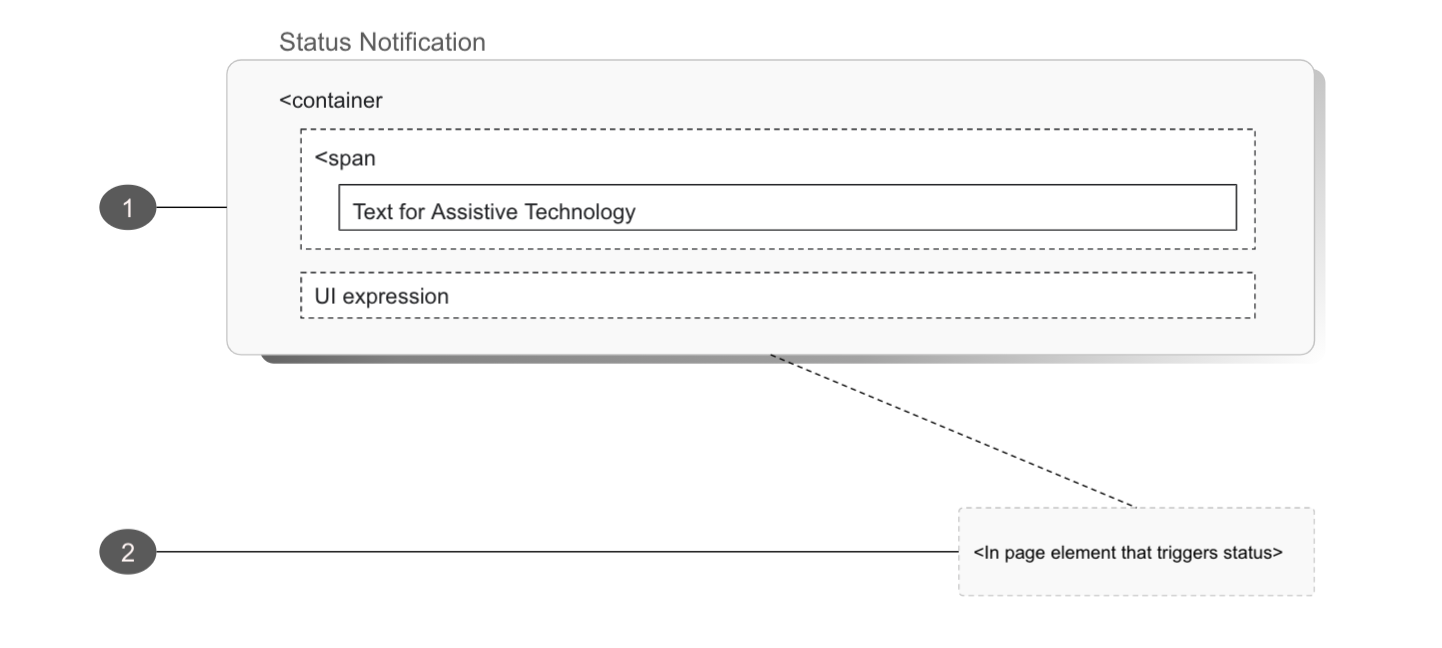
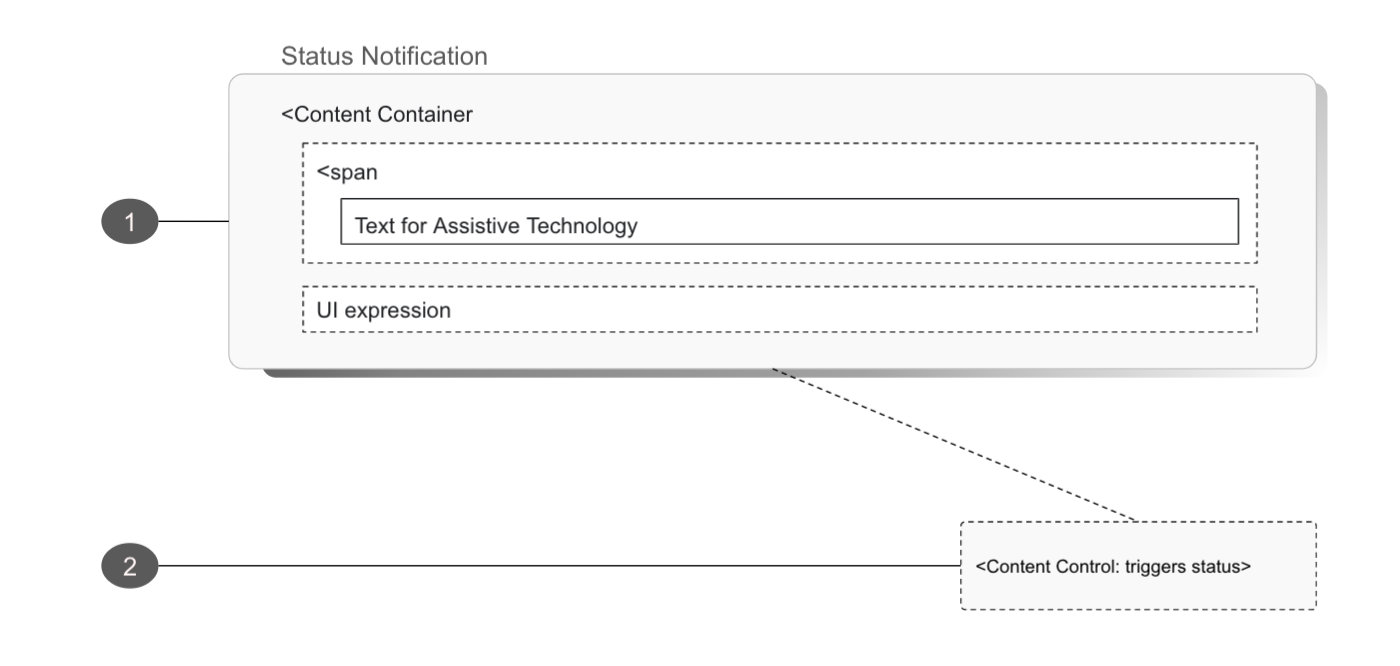
terminology update

diff --git a/docs/patterns/notifications/README.md b/docs/patterns/notifications/README.md
@@ -144,9 +144,9 @@ This can be provided in the form of screen reader only text, though consider if 
 
 <cdr-img :src="$withBase('/notifications/statusNotification.png')" alt="Diagram for conditional notifications as an overlay, annotating the required layout of the elements listed below" />
 
-- 1 [Status Container](#status-container)
-- 2 [User action that triggers Status Notification](#user-action-that-triggers-status-notification)
-##### Status Container
+- 1 [Status Content Container](#status-content-container)
+- 2 [Status Content Control](#status-content-controln)
+##### Status Content Container
 
 The Status Container wraps both the element being updated and any assistive technology helpers such as screen reader text. It may be a pre-existing section of a page or dynamically added.
 
@@ -209,7 +209,7 @@ Status Notifications will often be used to represent loading icons or submitting
   <!-- contents -->
 </section>
 ```
-##### User action that triggers Status Notification
+##### Status Content Control
 
 - **Should**
   - Status is a form of live region. If another part of the page controls what appears in the status, 
@@ -531,10 +531,6 @@ This experience is while less optimal than client validation can be helped with 
   - Give the error a heading level: Provide a header, preferably a H1, so that assistive technology users can jump directly to the error and correct it.
   - Visually style the error in such a way that it is distinguishable from other content
   - Provide a same-page link so that users can jump directly to the form field that has the error.
-
-
-
-
 
 #### Required Form Fields Display
 The Asterisks may not be read by all screen readers (in all reading modes) and may be difficult for users with low vision because they are rendered in a smaller size than default text.
